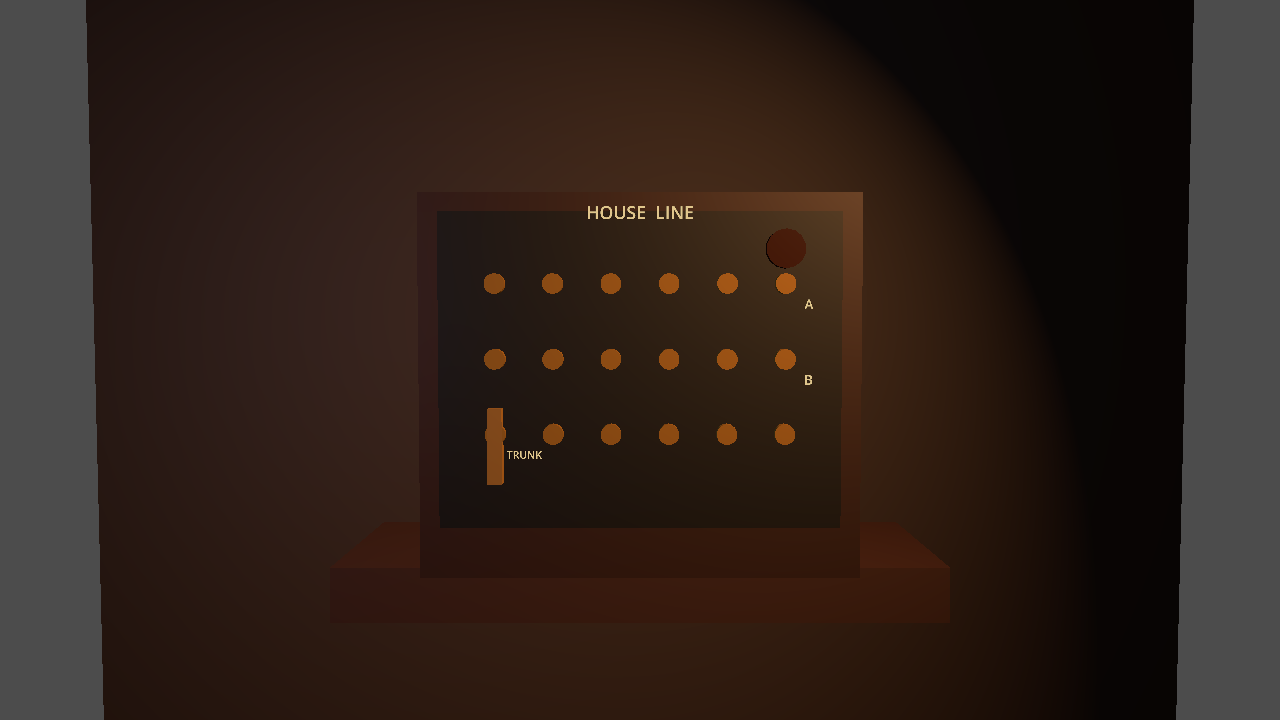
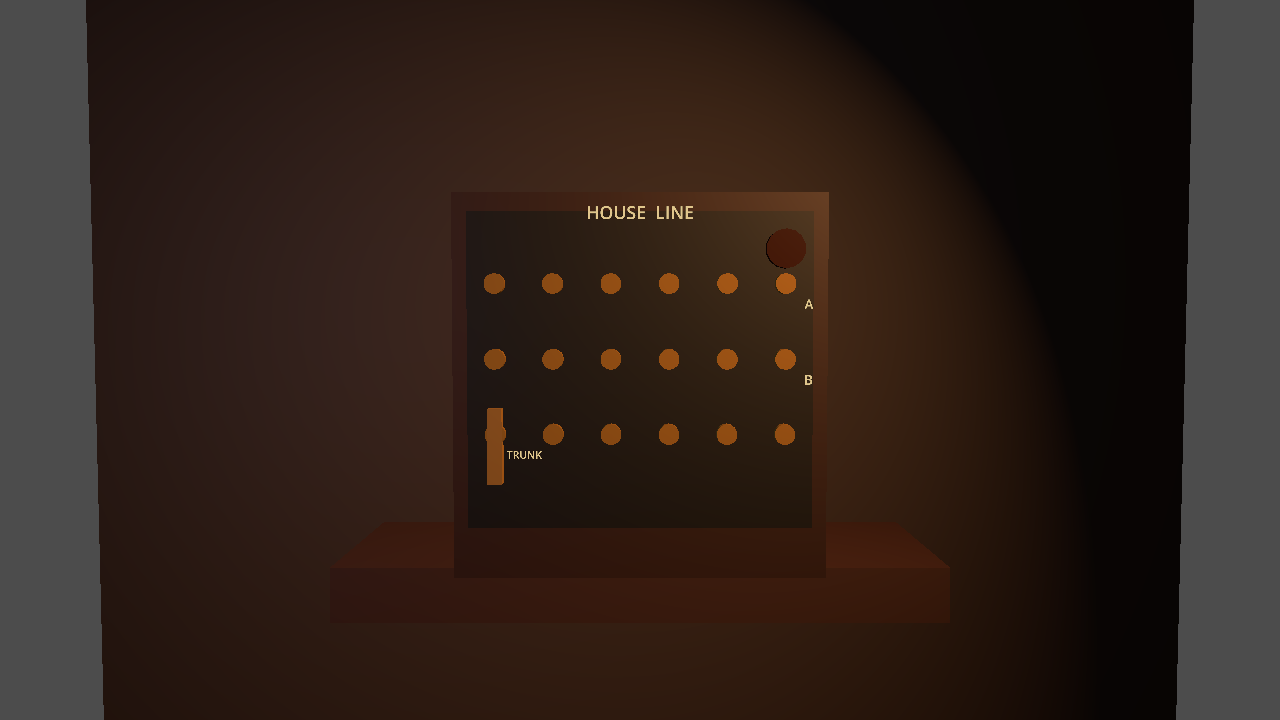
PHONE-B: put the ordinary house line in production

Changed region(s): [[0.3438, 0.275, 0.375, 0.7333], [0.625, 0.2444, 0.6875, 0.4278]]

diff --git a/art/renders/house_telephone_phone_b/README.md b/art/renders/house_telephone_phone_b/README.md
@@ -1,0 +1,39 @@
+# PHONE-B — the house board enters production
+
+Production Forward+ proof on the real F01 west lobby wall. The board is centred
+at building `(-5.05, -6.62, 1.42)`, above the 1.355 m dado and between the
+existing Orison ad frame and the documented north end of its 2.72 m plaster run.
+It adds an interaction `Area3D` and no blocking body.
+
+The placement took three sheets:
+
+1. The first context camera looked through the lobby corner and was rejected.
+2. The second revealed the older ad frame's proud horizontal stay passing
+   through the telephone jack field. Plan clearance alone was insufficient.
+3. The accepted board is a tighter 660 mm instrument at `y=-6.62`, leaving
+   about 630 mm between cases; its 160 mm case stands on shallow mounting cleats
+   so the older stay terminates in open plaster instead of either object.
+
+Frames and whole-frame RMSE against `00_board_control_a`:
+
+- `00_board_control_b`: production temporal floor `0.00182147` (not zero).
+- `01_west_wall_context`: accepted physical relationship to the older board,
+  dado and north wall break.
+- `02_4b_asking`: answering lamp, `0.0217605` (11.95× floor).
+- `03_a_answered`: listening key thrown, `0.0151145` (8.30× floor).
+- `04_b_carrying`: key plus hanging cord, `0.0189096` (10.38× floor).
+- `05_released`: returned idle, `0.00348741`; no zero claim.
+
+## Ownership correction
+
+The approved brief called this slice “first report through iron.” Production
+now makes that premise false in a useful way. The opening report is
+`vantry_chirp_2a`, Mina's 2A chirp: her physical instrument is an intercom, not
+a subscriber telephone. The paper is issued by `CoreLoopDirector`, presented
+by the night register and accepted by `FirstShiftDirector`. Routing it through
+the house board would duplicate a medium and teach the wrong network.
+
+Therefore this checkpoint places and proves the ordinary house line without
+connecting it to that report. `FirstShiftOpeningLiveTest` remains green. A
+later subscriber slice must supply an actual telephone-origin fact before a
+story owner may request this line.

diff --git a/design/HOUSE_TELEPHONE_ECOLOGY_BRIEF.md b/design/HOUSE_TELEPHONE_ECOLOGY_BRIEF.md
@@ -255,9 +255,12 @@ the rule of cool after physical truth is legible.
 
 1. **PHONE-A — census and ordinary line:** catalog, router contract, lobby board
    and deterministic focused proof.
-2. **PHONE-B — first report through iron:** connect the existing opening report
-   owner to the physical board without duplicate issuance; production-live and
-   opening-shift proof.
+2. **PHONE-B — ordinary iron in production:** place the physical board and
+   router, prove the ordinary line in the real lobby, and prove the existing
+   opening ritual unchanged. Audit correction: the opening report is Mina
+   2A's chirp and Mina owns an intercom, not a subscriber telephone; routing
+   that paper through the house board would lie about both medium and owner.
+   The first story connection waits for a genuine telephone-origin fact.
 3. **PHONE-C — home line and message bureau:** 4B suite set, message custody,
    period-correct unanswered service and first House English learning beat.
 4. **PHONE-D — Rhea's trustworthy/open line:** ordinary 3D operation followed by

diff --git a/art/renders/house_telephone_phone_a/README.md b/art/renders/house_telephone_phone_a/README.md
@@ -10,9 +10,9 @@ Sequence:
   `0.000000`.
 - `01_asking`: one endpoint asks and the upper answering lamp falls bright;
   against idle RMSE `0.0160153`.
-- `02_answered`: A's listening key is thrown; RMSE `0.0108318`.
+- `02_answered`: A's listening key is thrown; RMSE `0.0107138`.
 - `03_carrying`: the key remains thrown and one cloth cord hangs in a U between
-  the board and trunk; RMSE `0.0146625`.
+  the board and trunk; RMSE `0.0145755`.
 - `04_released`: physical line returned to idle. Whole-frame difference from
   the session-opening control is `0.0029573`; this is not claimed as zero.
 - `05_unanswered`: an asking appearance expires and the apparatus returns to
